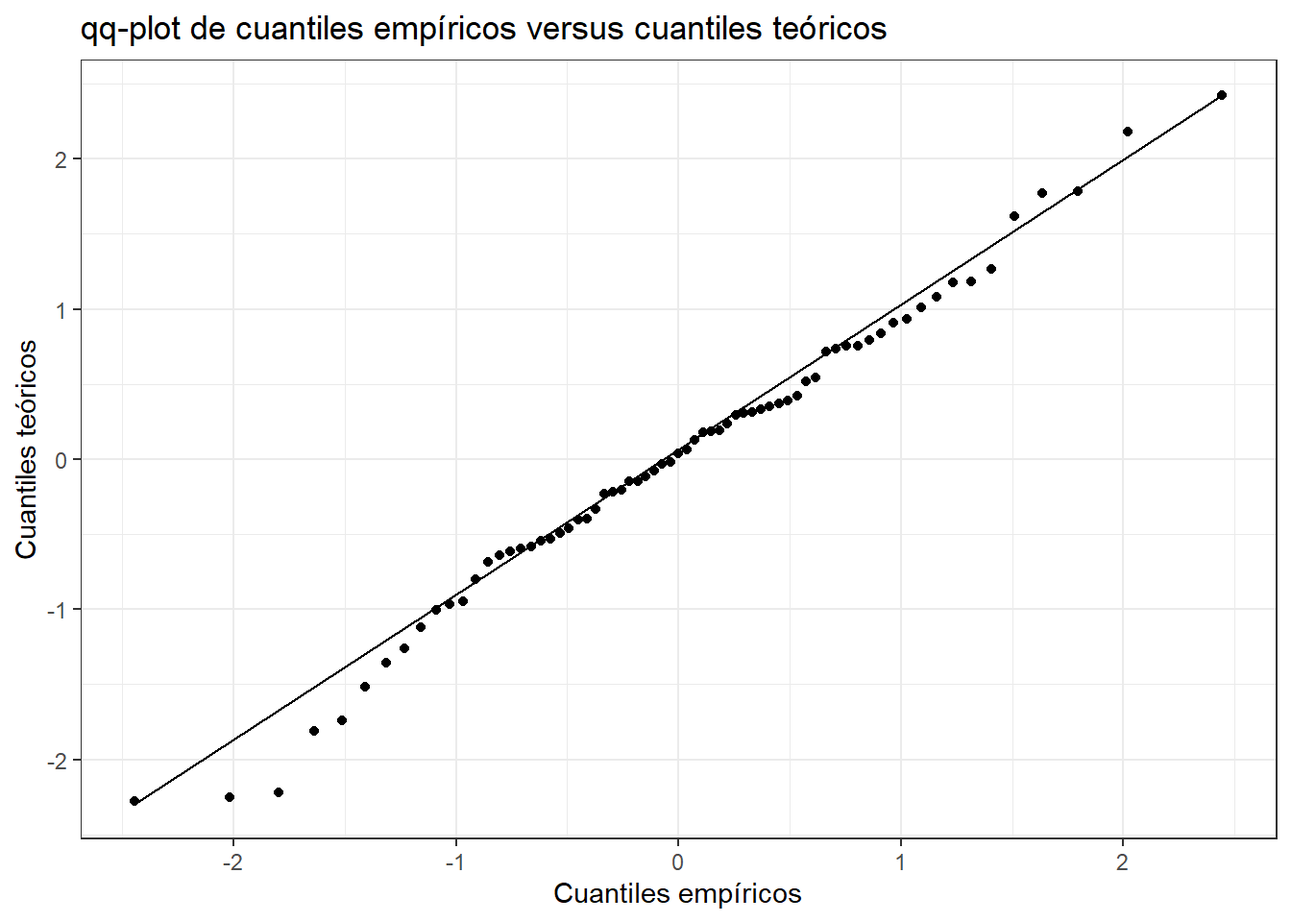
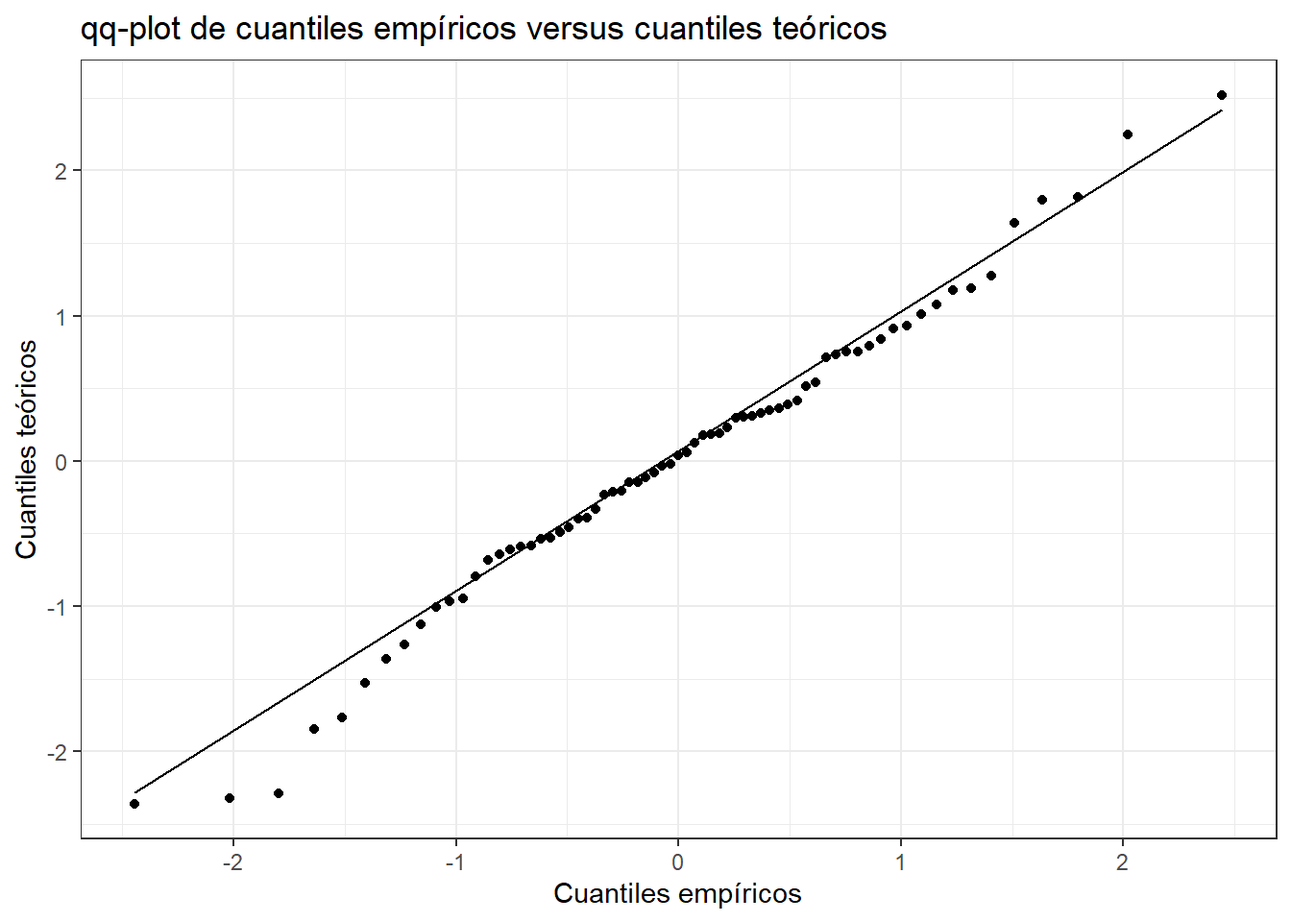
Corrijo fórmulas

diff --git a/docs/contenidos/un_criterio.html b/docs/contenidos/un_criterio.html
@@ -239,8 +239,7 @@ pre > code.sourceCode > span > a:first-child::before { text-decoration: underlin
 <div class="cell" data-layout-align="center">
 <div class="sourceCode cell-code" id="cb1"><pre class="sourceCode r code-with-copy"><code class="sourceCode r"><span id="cb1-1"><a href="#cb1-1" aria-hidden="true" tabindex="-1"></a><span class="co"># Librerías</span></span>
 <span id="cb1-2"><a href="#cb1-2" aria-hidden="true" tabindex="-1"></a><span class="fu">library</span>(readxl)</span>
-<span id="cb1-3"><a href="#cb1-3" aria-hidden="true" tabindex="-1"></a><span class="fu">library</span>(cowplot)</span>
-<span id="cb1-4"><a href="#cb1-4" aria-hidden="true" tabindex="-1"></a><span class="fu">library</span>(tidyverse)</span></code><button title="Copiar al portapapeles" class="code-copy-button"><i class="bi"></i></button></pre></div>
+<span id="cb1-3"><a href="#cb1-3" aria-hidden="true" tabindex="-1"></a><span class="fu">library</span>(tidyverse)</span></code><button title="Copiar al portapapeles" class="code-copy-button"><i class="bi"></i></button></pre></div>
 </div>
 <div class="cell" data-layout-align="center">
 <div class="sourceCode cell-code" id="cb2"><pre class="sourceCode r code-with-copy"><code class="sourceCode r"><span id="cb2-1"><a href="#cb2-1" aria-hidden="true" tabindex="-1"></a><span class="fu">head</span>(base_grupos)</span></code><button title="Copiar al portapapeles" class="code-copy-button"><i class="bi"></i></button></pre></div>
@@ -327,8 +326,9 @@ W = 0.96929, p-value = 0.5407</code></pre>
 <span id="cb16-4"><a href="#cb16-4" aria-hidden="true" tabindex="-1"></a>               <span class="at">width =</span> <span class="fl">0.2</span>) <span class="sc">+</span></span>
 <span id="cb16-5"><a href="#cb16-5" aria-hidden="true" tabindex="-1"></a>  <span class="fu">geom_boxplot</span>(<span class="at">fill =</span> <span class="st">"#4271AE"</span>, <span class="at">colour =</span> <span class="st">"#1F3552"</span>, </span>
 <span id="cb16-6"><a href="#cb16-6" aria-hidden="true" tabindex="-1"></a>               <span class="at">alpha =</span> <span class="fl">0.9</span>) <span class="sc">+</span></span>
-<span id="cb16-7"><a href="#cb16-7" aria-hidden="true" tabindex="-1"></a>  <span class="fu">ggtitle</span>(<span class="st">"Distribución de los tiempos en realizar el test de coordinación </span><span class="sc">\n</span><span class="st">según grupo de deportistas"</span>) <span class="sc">+</span></span>
-<span id="cb16-8"><a href="#cb16-8" aria-hidden="true" tabindex="-1"></a>  <span class="fu">labs</span>(<span class="at">y=</span><span class="st">"Tiempo (en segundos)"</span>, <span class="at">x=</span><span class="st">"Grupos"</span>)</span></code><button title="Copiar al portapapeles" class="code-copy-button"><i class="bi"></i></button></pre></div>
+<span id="cb16-7"><a href="#cb16-7" aria-hidden="true" tabindex="-1"></a>  <span class="fu">ggtitle</span>(<span class="st">"Distribución de los tiempos en realizar el test de coordinación </span></span>
+<span id="cb16-8"><a href="#cb16-8" aria-hidden="true" tabindex="-1"></a><span class="st">          </span><span class="sc">\n</span><span class="st">según grupo de deportistas"</span>) <span class="sc">+</span></span>
+<span id="cb16-9"><a href="#cb16-9" aria-hidden="true" tabindex="-1"></a>  <span class="fu">labs</span>(<span class="at">y=</span><span class="st">"Tiempo (en segundos)"</span>, <span class="at">x=</span><span class="st">"Grupos"</span>)</span></code><button title="Copiar al portapapeles" class="code-copy-button"><i class="bi"></i></button></pre></div>
 <div class="cell-output-display">
 <div class="quarto-figure quarto-figure-center">
 <figure class="figure">
@@ -386,12 +386,15 @@ Residuals   65  65.21   1.003
 Signif. codes:  0 '***' 0.001 '**' 0.01 '*' 0.05 '.' 0.1 ' ' 1</code></pre>
 </div>
 </div>
-<p>La prueba de hipótesis para responder al objetivo resulta: <span class="math inline">\(H_0) \ \mu_1 = \mu_2 =\mu_3 =\mu_4\)</span> versus <span class="math inline">\(H_1) Al \ menos \ un \ \mu_i \neq del \ resto, i=\overline{1,4}\)</span>, que es lo mismo que <span class="math inline">\(H_0) \ \tau_1 = \tau_2 =\tau_3 =\tau_4\)</span> versus <span class="math inline">\(H_1) Al \ menos \ un \ \tau_i \neq del \ resto, i=\overline{1,4}\)</span>.</p>
+<p>La prueba de hipótesis para responder al objetivo resulta:</p>
+<p><span class="math inline">\(H_0) \ \mu_1 = \mu_2 =\mu_3 =\mu_4\)</span> versus <span class="math inline">\(H_1) Al \ menos \ un \ \mu_i \neq del \ resto, i=\overline{1,4}\)</span>, que es lo mismo que:</p>
+<p><span class="math inline">\(H_0) \ \tau_1 = \tau_2 =\tau_3 =\tau_4\)</span> versus <span class="math inline">\(H_1) Al \ menos \ un \ \tau_i \neq del \ resto, i=\overline{1,4}\)</span>.</p>
 <p>En base a la evidencia muestral y con un nivel de significación del <span class="math inline">\(5\%\)</span>, se rechaza la hipótesis nula (<span class="math inline">\(pv=3.88e-09\)</span>), es decir, existen diferencias signficativas en los tiempos que les lleva realizar el test de coordinación en al menos uno de los grupos de deportistas.</p>
 <section id="comparaciones-múltiples" class="level2">
 <h2 class="anchored" data-anchor-id="comparaciones-múltiples">Comparaciones múltiples</h2>
 <p>El problema sobre la comparación de varios grupos que se resuelve a través del ANOVA es interesante y útil, pero no siempre suficiente. En caso de rechazar la hipótesis nula, se concluye que no todos los tratamientos tienen los mismos promedios poblacionales pero, seguramente, el investigador quiere saber cuál o cuáles son los promedios diferentes o cuáles son iguales entre sí.</p>
-<p>Para conocer entre cuales grupos se presentan las diferencias se utiliza el procedimiento de <strong>Comparaciones múltiples</strong>, el cual tiene como objetivo dar respuesta a las siguientes hipótesis (una vez que se rechazó la igualdad de promedios de tratamientos con la prueba F del ANOVA): <span class="math inline">\(H_0) \ \mu_i = \mu_{i'}\)</span> versus <span class="math inline">\(H_1) \mu_i \neq \mu_{i'}, \ i \neq i' \ \land i,i'=\overline{1,a}\)</span>.</p>
+<p>Para conocer entre cuales grupos se presentan las diferencias se utiliza el procedimiento de <strong>Comparaciones múltiples</strong>, el cual tiene como objetivo dar respuesta a las siguientes hipótesis (una vez que se rechazó la igualdad de promedios de tratamientos con la prueba F del ANOVA):</p>
+<p><span class="math inline">\(H_0) \ \mu_i = \mu_{i'}\)</span> versus <span class="math inline">\(H_1) \mu_i \neq \mu_{i'}, \ i \neq i' \ \land i,i'=\overline{1,a}\)</span>.</p>
 <div class="cell" data-layout-align="center">
 <div class="sourceCode cell-code" id="cb21"><pre class="sourceCode r code-with-copy"><code class="sourceCode r"><span id="cb21-1"><a href="#cb21-1" aria-hidden="true" tabindex="-1"></a><span class="co"># Librería</span></span>
 <span id="cb21-2"><a href="#cb21-2" aria-hidden="true" tabindex="-1"></a><span class="fu">library</span>(agricolae)</span></code><button title="Copiar al portapapeles" class="code-copy-button"><i class="bi"></i></button></pre></div>
@@ -564,11 +567,12 @@ attr(,"class")
 <section id="comprobación-de-supuestos" class="level2">
 <h2 class="anchored" data-anchor-id="comprobación-de-supuestos">Comprobación de supuestos</h2>
 <p>La validez de las inferencias extraídas a partir del modelo y su correspondiente ANOVA, las pruebas de hipótesis y los intervalos de confianza, se basan en el cumplimiento de los supuestos postulados. Si el modelo es de efectos fijos, se postula el supuesto de independencia, normalidad e igualdad de variancias para los errores aleatorios.</p>
-<p>Como los errores del modelo son desconocidos, la verificación de los mismos se realiza sobre una estimación de esos errores, habitualmente denominamos residuos. Se utilizarán los <strong>residuos ordinarios</strong> (<span class="math inline">\(\hat e_{ij} = y_{ij}-\bar y_{i.}\)</span>) y los <strong>residuos estandarizados</strong> (<span class="math inline">\(w_{ij} = \frac{\hat e_{ij}}{\sqrt{CME}}\)</span>).</p>
+<p>Como los errores del modelo son desconocidos, la verificación de los mismos se realiza sobre una estimación de esos errores, habitualmente denominamos residuos. Se pueden utilizar los <strong>residuos ordinarios</strong> (<span class="math inline">\(\hat e_{ij} = y_{ij}-\hat y_{ij}\)</span>), los <strong>residuos estandarizados</strong> (<span class="math inline">\(w_{ij} = \frac{\hat e_{ij}}{\sqrt{CME}}\)</span>) o los <strong>residuos estudentizados</strong> (<span class="math inline">\(t_{ij} = \frac{\hat e_{ij}}{\sqrt{CME*(1-h_{ii})}}\)</span>, donde <span class="math inline">\(h_{ii}\)</span> es el elemento <span class="math inline">\(ii\)</span> de la matriz diagonal <span class="math inline">\(H\)</span>).</p>
 <div class="cell" data-layout-align="center">
-<div class="sourceCode cell-code" id="cb30"><pre class="sourceCode r code-with-copy"><code class="sourceCode r"><span id="cb30-1"><a href="#cb30-1" aria-hidden="true" tabindex="-1"></a><span class="co"># Residuos ordinarios y estandarizados</span></span>
+<div class="sourceCode cell-code" id="cb30"><pre class="sourceCode r code-with-copy"><code class="sourceCode r"><span id="cb30-1"><a href="#cb30-1" aria-hidden="true" tabindex="-1"></a><span class="co"># Residuos ordinarios, estandarizados y estudentizados</span></span>
 <span id="cb30-2"><a href="#cb30-2" aria-hidden="true" tabindex="-1"></a>base_grupos<span class="sc">$</span>res <span class="ot">&lt;-</span> <span class="fu">residuals</span>(modelo)</span>
-<span id="cb30-3"><a href="#cb30-3" aria-hidden="true" tabindex="-1"></a>base_grupos<span class="sc">$</span>res_est <span class="ot">&lt;-</span> <span class="fu">rstandard</span>(modelo)</span></code><button title="Copiar al portapapeles" class="code-copy-button"><i class="bi"></i></button></pre></div>
+<span id="cb30-3"><a href="#cb30-3" aria-hidden="true" tabindex="-1"></a>base_grupos<span class="sc">$</span>res_estandar <span class="ot">&lt;-</span> <span class="fu">rstandard</span>(modelo)</span>
+<span id="cb30-4"><a href="#cb30-4" aria-hidden="true" tabindex="-1"></a>base_grupos<span class="sc">$</span>res_estud <span class="ot">&lt;-</span> <span class="fu">rstudent</span>(modelo)</span></code><button title="Copiar al portapapeles" class="code-copy-button"><i class="bi"></i></button></pre></div>
 </div>
 <ul>
 <li><strong>Normalidad</strong></li>
@@ -576,7 +580,7 @@ attr(,"class")
 <p>La normalidad de los residuos se puede probar a través de técnicas gráficas (qq-plot, histogramas) y también a partir de pruebas de hipótesis (Shapiro-Wilks, Lilliefors).</p>
 <div class="cell" data-layout-align="center">
 <div class="sourceCode cell-code" id="cb31"><pre class="sourceCode r code-with-copy"><code class="sourceCode r"><span id="cb31-1"><a href="#cb31-1" aria-hidden="true" tabindex="-1"></a><span class="co"># qq-plot de cuantiles empíricos versus cuantiles teóricos</span></span>
-<span id="cb31-2"><a href="#cb31-2" aria-hidden="true" tabindex="-1"></a><span class="fu">ggplot</span>(base_grupos,<span class="fu">aes</span>(<span class="at">sample=</span>res_est)) <span class="sc">+</span></span>
+<span id="cb31-2"><a href="#cb31-2" aria-hidden="true" tabindex="-1"></a><span class="fu">ggplot</span>(base_grupos,<span class="fu">aes</span>(<span class="at">sample=</span>res_estud)) <span class="sc">+</span></span>
 <span id="cb31-3"><a href="#cb31-3" aria-hidden="true" tabindex="-1"></a>  <span class="fu">stat_qq</span>() <span class="sc">+</span> </span>
 <span id="cb31-4"><a href="#cb31-4" aria-hidden="true" tabindex="-1"></a>  <span class="fu">stat_qq_line</span>() <span class="sc">+</span></span>
 <span id="cb31-5"><a href="#cb31-5" aria-hidden="true" tabindex="-1"></a>  <span class="fu">theme_bw</span>() <span class="sc">+</span></span>
@@ -591,23 +595,23 @@ attr(,"class")
 </div>
 </div>
 <div class="sourceCode cell-code" id="cb32"><pre class="sourceCode r code-with-copy"><code class="sourceCode r"><span id="cb32-1"><a href="#cb32-1" aria-hidden="true" tabindex="-1"></a><span class="co"># Test de Shapiro-Wilks (H0) Los errores se distribuyen normales)</span></span>
-<span id="cb32-2"><a href="#cb32-2" aria-hidden="true" tabindex="-1"></a><span class="fu">shapiro.test</span>(base_grupos<span class="sc">$</span>res_est)</span></code><button title="Copiar al portapapeles" class="code-copy-button"><i class="bi"></i></button></pre></div>
+<span id="cb32-2"><a href="#cb32-2" aria-hidden="true" tabindex="-1"></a><span class="fu">shapiro.test</span>(base_grupos<span class="sc">$</span>res_estud)</span></code><button title="Copiar al portapapeles" class="code-copy-button"><i class="bi"></i></button></pre></div>
 <div class="cell-output cell-output-stdout">
 <pre><code>
     Shapiro-Wilk normality test
 
-data:  base_grupos$res_est
-W = 0.98795, p-value = 0.7501</code></pre>
+data:  base_grupos$res_estud
+W = 0.98665, p-value = 0.6745</code></pre>
 </div>
 <div class="sourceCode cell-code" id="cb34"><pre class="sourceCode r code-with-copy"><code class="sourceCode r"><span id="cb34-1"><a href="#cb34-1" aria-hidden="true" tabindex="-1"></a><span class="co"># Test de Lilliefors (H0) Los errores se distribuyen normales)</span></span>
 <span id="cb34-2"><a href="#cb34-2" aria-hidden="true" tabindex="-1"></a><span class="fu">library</span>(nortest) </span>
-<span id="cb34-3"><a href="#cb34-3" aria-hidden="true" tabindex="-1"></a><span class="fu">lillie.test</span>(base_grupos<span class="sc">$</span>res_est)</span></code><button title="Copiar al portapapeles" class="code-copy-button"><i class="bi"></i></button></pre></div>
+<span id="cb34-3"><a href="#cb34-3" aria-hidden="true" tabindex="-1"></a><span class="fu">lillie.test</span>(base_grupos<span class="sc">$</span>res_estud)</span></code><button title="Copiar al portapapeles" class="code-copy-button"><i class="bi"></i></button></pre></div>
 <div class="cell-output cell-output-stdout">
 <pre><code>
     Lilliefors (Kolmogorov-Smirnov) normality test
 
-data:  base_grupos$res_est
-D = 0.059182, p-value = 0.7952</code></pre>
+data:  base_grupos$res_estud
+D = 0.063954, p-value = 0.6914</code></pre>
 </div>
 </div>
 <p>En base a la evidencia muestral y con un nivel de significación del 5%, no se rechaza la normalidad de los errores.</p>
@@ -616,8 +620,8 @@ D = 0.059182, p-value = 0.7952</code></pre>
 </ul>
 <p>La homocedasticidad de los residuos se puede probar a través de técnicas gráficas (residuos versus valores predichos) y también a partir de pruebas de hipótesis (Levene, Bartlett u otras).</p>
 <div class="cell" data-layout-align="center">
-<div class="sourceCode cell-code" id="cb36"><pre class="sourceCode r code-with-copy"><code class="sourceCode r"><span id="cb36-1"><a href="#cb36-1" aria-hidden="true" tabindex="-1"></a><span class="co"># Gráfico de w_ij vs. predichos</span></span>
-<span id="cb36-2"><a href="#cb36-2" aria-hidden="true" tabindex="-1"></a><span class="fu">ggplot</span>(base_grupos, <span class="fu">aes</span>(<span class="at">x=</span>grupos, <span class="at">y=</span>res_est)) <span class="sc">+</span></span>
+<div class="sourceCode cell-code" id="cb36"><pre class="sourceCode r code-with-copy"><code class="sourceCode r"><span id="cb36-1"><a href="#cb36-1" aria-hidden="true" tabindex="-1"></a><span class="co"># Gráfico de t_ij vs. predichos</span></span>
+<span id="cb36-2"><a href="#cb36-2" aria-hidden="true" tabindex="-1"></a><span class="fu">ggplot</span>(base_grupos, <span class="fu">aes</span>(<span class="at">x=</span>grupos, <span class="at">y=</span>res_estud)) <span class="sc">+</span></span>
 <span id="cb36-3"><a href="#cb36-3" aria-hidden="true" tabindex="-1"></a>  <span class="fu">geom_point</span>() <span class="sc">+</span></span>
 <span id="cb36-4"><a href="#cb36-4" aria-hidden="true" tabindex="-1"></a>  <span class="fu">theme_bw</span>() <span class="sc">+</span></span>
 <span id="cb36-5"><a href="#cb36-5" aria-hidden="true" tabindex="-1"></a>  <span class="fu">ylim</span>(<span class="sc">-</span><span class="dv">3</span>,<span class="dv">3</span>)</span></code><button title="Copiar al portapapeles" class="code-copy-button"><i class="bi"></i></button></pre></div>
@@ -628,13 +632,14 @@ D = 0.059182, p-value = 0.7952</code></pre>
 </figure>
 </div>
 </div>
-<div class="sourceCode cell-code" id="cb37"><pre class="sourceCode r code-with-copy"><code class="sourceCode r"><span id="cb37-1"><a href="#cb37-1" aria-hidden="true" tabindex="-1"></a><span class="co"># Test de Levene (H0) Las vcias de todos los grupos son iguales vs. H1) Al menos una distina del resto)</span></span>
-<span id="cb37-2"><a href="#cb37-2" aria-hidden="true" tabindex="-1"></a><span class="fu">library</span>(car)</span>
-<span id="cb37-3"><a href="#cb37-3" aria-hidden="true" tabindex="-1"></a><span class="fu">leveneTest</span>(base_grupos<span class="sc">$</span>res_est, <span class="at">group =</span> base_grupos<span class="sc">$</span>grupos)</span></code><button title="Copiar al portapapeles" class="code-copy-button"><i class="bi"></i></button></pre></div>
+<div class="sourceCode cell-code" id="cb37"><pre class="sourceCode r code-with-copy"><code class="sourceCode r"><span id="cb37-1"><a href="#cb37-1" aria-hidden="true" tabindex="-1"></a><span class="co"># Test de Levene (H0) Las vcias de todos los grupos son iguales </span></span>
+<span id="cb37-2"><a href="#cb37-2" aria-hidden="true" tabindex="-1"></a><span class="co">#                 vs. H1) Al menos una distinta del resto)</span></span>
+<span id="cb37-3"><a href="#cb37-3" aria-hidden="true" tabindex="-1"></a><span class="fu">library</span>(car)</span>
+<span id="cb37-4"><a href="#cb37-4" aria-hidden="true" tabindex="-1"></a><span class="fu">leveneTest</span>(base_grupos<span class="sc">$</span>res_estud, <span class="at">group =</span> base_grupos<span class="sc">$</span>grupos)</span></code><button title="Copiar al portapapeles" class="code-copy-button"><i class="bi"></i></button></pre></div>
 <div class="cell-output cell-output-stdout">
 <pre><code>Levene's Test for Homogeneity of Variance (center = median)
       Df F value Pr(&gt;F)
-group  3  2.1288 0.1051
+group  3  2.1081 0.1077
       65               </code></pre>
 </div>
 </div>
@@ -693,13 +698,15 @@ group  3  2.1288 0.1051
 <p>Además, <span class="math inline">\(e_{ijk} \sim \mathcal{N}(0,\sigma^2)\)</span> <em>e independientes.</em></p>
 <p>En este modelo, a través de la interacción, se postula que el efecto de deporte en el resultado del test de coordinación de los deportistas no es el mismo para los dos clubes.</p>
 <p>La reparametrización que utiliza <span class="math inline">\(R\)</span> para el ajuste del modelo es:</p>
-<p>[ <span class="math display">\[\begin{align*}
+<p><span class="math display">\[
+\begin{align*}
       \tau_1 &amp;= 0 \\
       \beta_1 &amp;= 0 \\
       \tau\beta_{11} &amp;= 0 \\
       \tau\beta_{12} &amp;= 0 \\
       \tau\beta_{21} &amp;= 0
-   \end{align*}\]</span>]</p>
+   \end{align*}
+\]</span></p>
 <div class="cell" data-layout-align="center">
 <div class="sourceCode cell-code" id="cb40"><pre class="sourceCode r code-with-copy"><code class="sourceCode r"><span id="cb40-1"><a href="#cb40-1" aria-hidden="true" tabindex="-1"></a><span class="co"># Modelo estimado</span></span>
 <span id="cb40-2"><a href="#cb40-2" aria-hidden="true" tabindex="-1"></a>modelo <span class="ot">&lt;-</span> <span class="fu">lm</span>(coord<span class="sc">~</span>deporte<span class="sc">*</span>club, base_factores)</span>

diff --git a/docs/contenidos/dos_criterios_int.html b/docs/contenidos/dos_criterios_int.html
@@ -322,7 +322,8 @@ pre > code.sourceCode > span > a:first-child::before { text-decoration: underlin
 <p>En este modelo, a través de la interacción, se postula que el efecto de la edad del corredor en el tiempo que tarda en alcanzar las 1.5 millas es diferente según su categoría.</p>
 <p>A continuación, se muestra el ajuste del modelo y la tabla ANOVA.</p>
 <p>La reparametrización que utiliza <span class="math inline">\(R\)</span> para el ajuste del modelo es:</p>
-<p>[ <span class="math display">\[\begin{align*}
+<p><span class="math display">\[
+  \begin{align*}
       \tau_1 &amp;= 0 \\
       \beta_1 &amp;= 0 \\
       \tau\beta_{11} &amp;= 0 \\
@@ -330,7 +331,8 @@ pre > code.sourceCode > span > a:first-child::before { text-decoration: underlin
       \tau\beta_{21} &amp;= 0 \\      
       \tau\beta_{13} &amp;= 0 \\
       \tau\beta_{31} &amp;= 0
-   \end{align*}\]</span>]</p>
+   \end{align*}
+\]</span></p>
 <div class="cell" data-layout-align="center">
 <div class="sourceCode cell-code" id="cb8"><pre class="sourceCode r code-with-copy"><code class="sourceCode r"><span id="cb8-1"><a href="#cb8-1" aria-hidden="true" tabindex="-1"></a><span class="co"># Modelo estimado</span></span>
 <span id="cb8-2"><a href="#cb8-2" aria-hidden="true" tabindex="-1"></a>modelo <span class="ot">&lt;-</span> <span class="fu">lm</span>(tiempo<span class="sc">~</span>edad<span class="sc">*</span>categoria, base_fitness)</span>
@@ -375,7 +377,8 @@ Residuals       9   2888     321
 Signif. codes:  0 '***' 0.001 '**' 0.01 '*' 0.05 '.' 0.1 ' ' 1</code></pre>
 </div>
 </div>
-<p>El test de hipótesis para responder al efecto interacción se plantea como: \ <span class="math inline">\(H_0)\)</span> No hay interacción versus <span class="math inline">\(H_1)\)</span> Hay interacción.</p>
+<p>El test de hipótesis para responder al efecto interacción se plantea como:</p>
+<p><span class="math inline">\(H_0)\)</span> No hay interacción entre edad y categoría versus <span class="math inline">\(H_1)\)</span> Hay interacción entre edad y categoría.</p>
 <p>Que no haya interacción significa que el efecto edad es el mismo para cualquier categoría de fitness.</p>
 <p>En base a la evidencia muestral y con un nivel de significación del <span class="math inline">\(5\%\)</span>, se rechaza la hipótesis nula, es decir, hay efecto interacción entre edad y categoría. El efecto de la edad sobre el cambio del tiempo en realizar las 1.5 millas de los corredores es diferente según la categoría en la que se encuentran.</p>
 <p>Como la interacción del modelo resultó significativa, se prueban los efectos principales dentro de cada nivel del otro factor.</p>
@@ -383,10 +386,10 @@ Signif. codes:  0 '***' 0.001 '**' 0.01 '*' 0.05 '.' 0.1 ' ' 1</code></pre>
 <p><span class="math inline">\(\hat{E(Y_{ijk})} = \hat{\mu} + \hat{\tau_2} + \hat{\beta_2} + \hat{\tau\beta_{22}} = 537 + 35 + 133 + 93 = 798\)</span></p>
 <p>Es decir, a un corredor de 50 años con categoría baja de fitness le llevará en promedio 798 segundos (aproximadamente 13 minutos) en completar un recorrido de 1.5 millas.</p>
 <p>Para comparar los niveles de categoría dentro de cada edad, planteamos las siguientes comparaciones a través de las siguientes hipótesis:</p>
-<p><span class="math inline">\(H_0)\)</span> [ <span class="math display">\[\begin{align*}
+<p><span class="math display">\[H_0) \begin{align*}
       \mu_{i1} &amp;= \mu_{i2} \\
       \mu_{i2} &amp;= \mu_{i3}
-   \end{align*}\]</span>], para <span class="math inline">\(i\)</span> fijo variando de <span class="math inline">\(1\)</span> a <span class="math inline">\(3\)</span>.</p>
+   \end{align*}\]</span> para <span class="math inline">\(i\)</span> fijo variando de <span class="math inline">\(1\)</span> a <span class="math inline">\(3\)</span>.</p>
 <div class="cell" data-layout-align="center">
 <div class="sourceCode cell-code" id="cb12"><pre class="sourceCode r code-with-copy"><code class="sourceCode r"><span id="cb12-1"><a href="#cb12-1" aria-hidden="true" tabindex="-1"></a><span class="fu">joint_tests</span>(modelo, <span class="at">by =</span> <span class="st">"edad"</span>)</span></code><button title="Copiar al portapapeles" class="code-copy-button"><i class="bi"></i></button></pre></div>
 <div class="cell-output cell-output-stdout">
@@ -404,10 +407,10 @@ edad = 60:
 </div>
 </div>
 <p>Para comparar los niveles de edad dentro de cada categoría, planteamos las siguientes comparaciones a través de las siguientes hipótesis:</p>
-<p><span class="math inline">\(H_0)\)</span> [ <span class="math display">\[\begin{align*}
+<p><span class="math display">\[H_0) \begin{align*}
       \mu_{1j} &amp;= \mu_{2j} \\
       \mu_{2j} &amp;= \mu_{3j}
-   \end{align*}\]</span>], para <span class="math inline">\(j\)</span> fijo variando de <span class="math inline">\(1\)</span> a <span class="math inline">\(3\)</span>.</p>
+   \end{align*}\]</span> para <span class="math inline">\(j\)</span> fijo variando de <span class="math inline">\(1\)</span> a <span class="math inline">\(3\)</span>.</p>
 <div class="cell" data-layout-align="center">
 <div class="sourceCode cell-code" id="cb14"><pre class="sourceCode r code-with-copy"><code class="sourceCode r"><span id="cb14-1"><a href="#cb14-1" aria-hidden="true" tabindex="-1"></a><span class="fu">joint_tests</span>(modelo, <span class="at">by =</span> <span class="st">"categoria"</span>)</span></code><button title="Copiar al portapapeles" class="code-copy-button"><i class="bi"></i></button></pre></div>
 <div class="cell-output cell-output-stdout">

diff --git a/docs/contenidos/dos_poblaciones.html b/docs/contenidos/dos_poblaciones.html
@@ -237,8 +237,8 @@ pre > code.sourceCode > span > a:first-child::before { text-decoration: underlin
 6     6 Femenino CLUB ATLETICO PROVINCIAL                 Volleyba…  15.1     51</code></pre>
 </div>
 </div>
-<p>En primer lugar, se evalúa el cumplimiento de normalidad en ambos grupos. Se puede comprobar gráficamente a partir de histogramas y también a través de la prueba de Shapiro-Wilks, en la cual se prueba <span class="math inline">\(H_0) \ Y \sim \mathcal{N}(\mu,\sigma^2)\)</span> versus <span class="math inline">\(H_1) \ Y \nsim \mathcal{N}(\mu,\sigma^2)\)</span>. La variable en estudio es el tiempo (en segundos) que tarda un deportista en realizar el test de coordinación ().</p>
-<p>Nota: Por el Teorema Central del Límite, si se cuenta con muchas observaciones no sería necesario evaluar la normalidad de la variable en estudio.</p>
+<p>En primer lugar, se evalúa el cumplimiento de normalidad en ambos grupos. Se puede comprobar gráficamente a partir de histogramas y también a través de la prueba de Shapiro-Wilks, en la cual se prueba <span class="math inline">\(H_0) \ Y \sim \mathcal{N}(\mu,\sigma^2)\)</span> versus <span class="math inline">\(H_1) \ Y \nsim \mathcal{N}(\mu,\sigma^2)\)</span>. La variable en estudio es el tiempo (en segundos) que tarda un deportista en realizar el test de coordinación (<em>coord</em>).</p>
+<p><em>Nota:</em> Por el Teorema Central del Límite, si se cuenta con muchas observaciones no sería necesario evaluar la normalidad de la variable en estudio.</p>
 <div class="cell" data-layout-align="center">
 <div class="cell-output-display">
 <div class="quarto-figure quarto-figure-center">
@@ -290,7 +290,7 @@ W = 0.99461, p-value = 0.8573</code></pre>
 <span id="cb10-4"><a href="#cb10-4" aria-hidden="true" tabindex="-1"></a>               <span class="at">width =</span> <span class="fl">0.2</span>) <span class="sc">+</span></span>
 <span id="cb10-5"><a href="#cb10-5" aria-hidden="true" tabindex="-1"></a>  <span class="fu">geom_boxplot</span>(<span class="at">fill =</span> <span class="st">"#4271AE"</span>, <span class="at">colour =</span> <span class="st">"#1F3552"</span>, </span>
 <span id="cb10-6"><a href="#cb10-6" aria-hidden="true" tabindex="-1"></a>               <span class="at">alpha =</span> <span class="fl">0.9</span>) <span class="sc">+</span></span>
-<span id="cb10-7"><a href="#cb10-7" aria-hidden="true" tabindex="-1"></a>  <span class="fu">ggtitle</span>(<span class="st">"Boxplots de los tiempos en realizar el test de coordinación según sexo"</span>) <span class="sc">+</span></span>
+<span id="cb10-7"><a href="#cb10-7" aria-hidden="true" tabindex="-1"></a>  <span class="fu">ggtitle</span>(<span class="st">"Distribución de los tiempos en realizar el test de coordinación según sexo"</span>) <span class="sc">+</span></span>
 <span id="cb10-8"><a href="#cb10-8" aria-hidden="true" tabindex="-1"></a>  <span class="fu">labs</span>(<span class="at">y=</span><span class="st">"Tiempo (en segundos)"</span>)</span></code><button title="Copiar al portapapeles" class="code-copy-button"><i class="bi"></i></button></pre></div>
 <div class="cell-output-display">
 <div class="quarto-figure quarto-figure-center">
@@ -321,8 +321,8 @@ ratio of variances
 </div>
 <p>No hay evidencia suficiente para rechazar la hipótesis nula. Luego, se postula la prueba de igualdad de medias: <span class="math inline">\(H_0) \ \mu_F - \mu_M = 0\)</span> versus <span class="math inline">\(H_1) \ \mu_F - \mu_M \neq 0\)</span>.</p>
 <p>La <strong>Prueba “t de student”</strong> usa como estadística:</p>
-<p><span class="math inline">\(\frac{\bar{y}_F \ - \ \bar{y}_M }{\sqrt{s^2_a (\frac{1}{n_F}+\frac{1}{n_M})}} \sim t_{n_F + n_M -2; \ s^2_a}\)</span></p>
-<p>siendo <span class="math inline">\(s^2_a\)</span> la variancia amalgamada de ambos grupos.</p>
+<p><span class="math inline">\(\frac{\bar{y}_F \ - \ \bar{y}_M }{\sqrt{s^2_a (\frac{1}{n_F}+\frac{1}{n_M})}} \sim t_{n_F + n_M -2; \ S^2_a}\)</span></p>
+<p>siendo <span class="math inline">\(S^2_a= \frac{(n_F-1)S^2_F \ + \ (n_M-1)S^2_M}{n_F + n_M - 2}\)</span> la variancia amalgamada de ambos grupos.</p>
 <div class="cell" data-layout-align="center">
 <div class="sourceCode cell-code" id="cb13"><pre class="sourceCode r code-with-copy"><code class="sourceCode r"><span id="cb13-1"><a href="#cb13-1" aria-hidden="true" tabindex="-1"></a><span class="co"># Test de medias</span></span>
 <span id="cb13-2"><a href="#cb13-2" aria-hidden="true" tabindex="-1"></a><span class="fu">t.test</span>(coord <span class="sc">~</span> sexo, base, <span class="at">var.equal =</span> T)</span></code><button title="Copiar al portapapeles" class="code-copy-button"><i class="bi"></i></button></pre></div>

diff --git a/docs/contenidos/dos_criterios_anidados.html b/docs/contenidos/dos_criterios_anidados.html
@@ -259,13 +259,14 @@ pre > code.sourceCode > span > a:first-child::before { text-decoration: underlin
 <p>Además, <span class="math inline">\(e_{ijk} \sim \mathcal{N}(0,\sigma^2)\)</span> <em>e independientes.</em></p>
 <p>En este modelo se postula que los corrales se encuentran anidados a los tratamientos.</p>
 <p>Las restricciones que utiliza <span class="math inline">\(R\)</span> para el ajuste del modelo son:</p>
-<p>[ <span class="math display">\[\begin{align*}
+<p><span class="math display">\[ \begin{align*}
       \tau_1 &amp;= 0 \\
       \beta_{1(1)} &amp;= 0 \\
       \beta_{1(2)} &amp;= 0 \\
       \beta_{1(3)} &amp;= 0 \\
       \beta_{1(4)} &amp;= 0
-   \end{align*}\]</span>]</p>
+   \end{align*}
+\]</span></p>
 <div class="cell" data-layout-align="center">
 <div class="sourceCode cell-code" id="cb4"><pre class="sourceCode r code-with-copy"><code class="sourceCode r"><span id="cb4-1"><a href="#cb4-1" aria-hidden="true" tabindex="-1"></a><span class="co"># Modelo estimado</span></span>
 <span id="cb4-2"><a href="#cb4-2" aria-hidden="true" tabindex="-1"></a>m1 <span class="ot">&lt;-</span> <span class="fu">lm</span>(peso <span class="sc">~</span> tratamiento<span class="sc">/</span>corral, pollos)</span>
